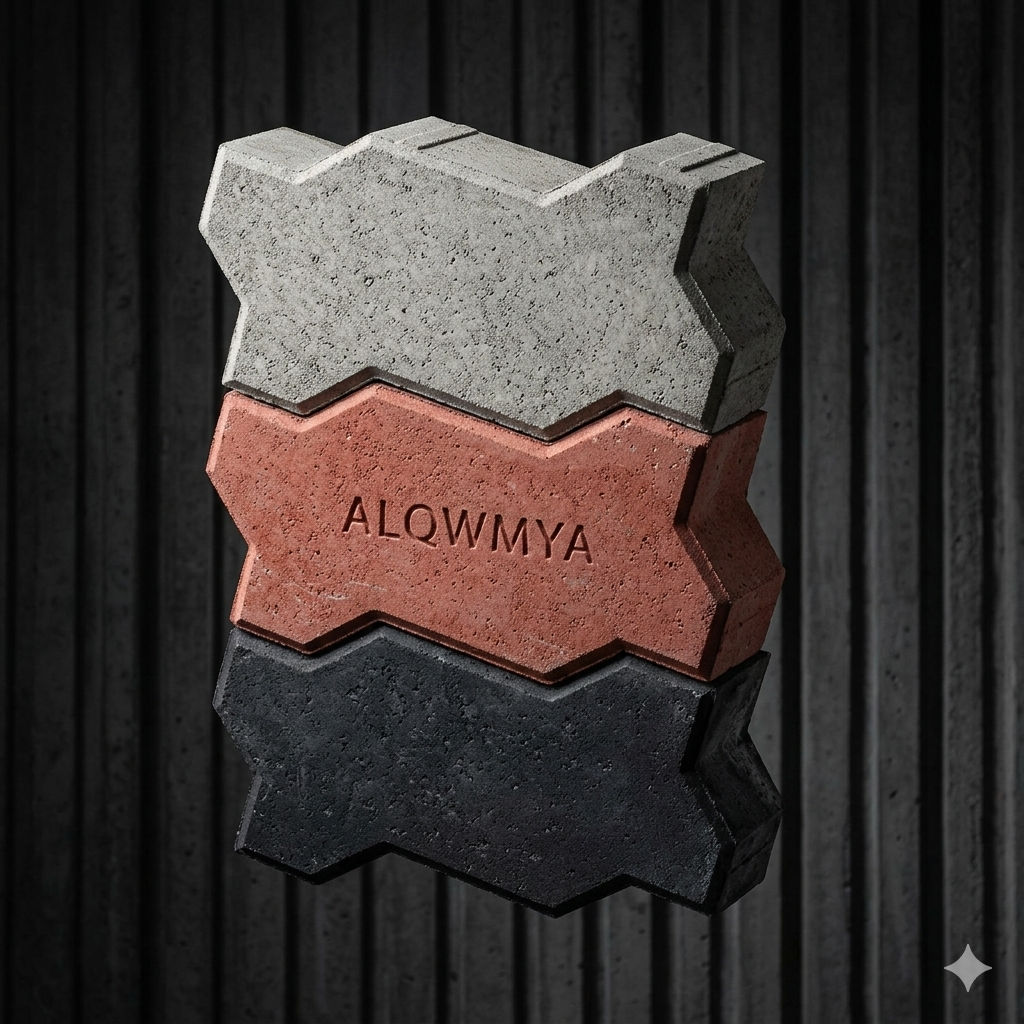
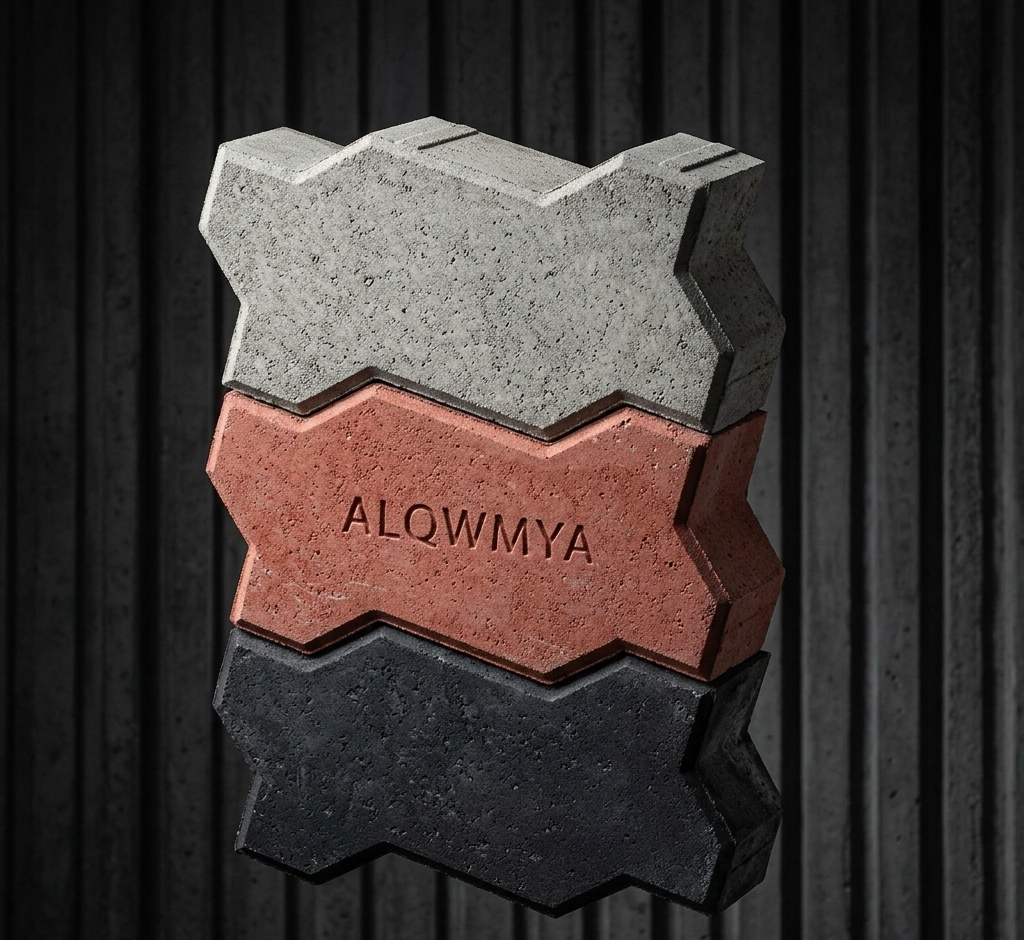
feat: add block sizes 10, 12, 12-double, 15, 20, 25

Changed region(s): [[0.1875, 0.0926, 0.7812, 0.9872], [0.9062, 0.9255, 0.9688, 0.9564]]

diff --git a/src/data/productsData.js b/src/data/productsData.js
@@ -246,61 +246,125 @@ export const productsData = {
         description: 'البلوك الأسمنتي (الطوب البلوك) المفرغ والمصمت هو الخيار الأفضل والأسرع في البناء الحديث. يتميز بالعزل الحراري والصوتي الجيد في حالة البلوك المفرغ، والقوة العالية في البلوك المصمت.',
         items: [
             {
-                id: 'block-40-20-20',
-                name: 'بلوك أسمنتي 40×20×20',
+                id: 'block-10',
+                name: 'بلوك أسمنتي مقاس 10',
+                image: '/images/بلوك اسمنتي مفرغ.png',
+                images: [
+                    '/images/بلوك اسمنتي مفرغ.png',
+                    '/images/بولك اسمنتي مفرغ 1.png'
+                ],
+                shortDescription: 'بلوك أسمنتي مفرغ مقاس 10، مناسب للقواطع الداخلية النحيفة لتوفير مساحة البناء.',
+                specs: {
+                    length: '40 سم',
+                    width: '10 سم',
+                    height: '20 سم',
+                    weight: 'حوالي 9.5 كجم',
+                    material: 'أسمنت بورتلاند، رمل نظيف، سن دلوميت، إضافات',
+                    strength: 'حسب الطلب (طبقا للمواصفات القياسية)',
+                    absorption: '7%',
+                    usage: 'القواطع الداخلية، التقسيمات المعمارية الخفيفة'
+                }
+            },
+            {
+                id: 'block-12',
+                name: 'بلوك أسمنتي مقاس 12',
+                image: '/images/بلوك 12 اسمنتي مفرغ.png',
+                images: [
+                    '/images/بلوك 12 اسمنتي مفرغ.png',
+                    '/images/بلوك 12 مفرغ.png',
+                    '/images/بلوك اسمنتي 12.jpg'
+                ],
+                shortDescription: 'بلوك أسمنتي مفرغ مقاس 12، الخيار الأمثل لتقسيم الغرف والحمامات والمطابخ.',
+                specs: {
+                    length: '40 سم',
+                    width: '12 سم',
+                    height: '20 سم',
+                    weight: 'حوالي 11 كجم',
+                    material: 'أسمنت بورتلاند، رمل نظيف، سن دلوميت، إضافات',
+                    strength: 'حسب الطلب (طبقا للمواصفات القياسية)',
+                    absorption: '7%',
+                    usage: 'تقسيم الغرف، القواطع الداخلية'
+                }
+            },
+            {
+                id: 'block-12-double',
+                name: 'بلوك أسمنتي دبل مفرغ مقاس 12',
+                image: '/images/بلوك اسمنتي دبل مفرغ 12.png',
+                images: [
+                    '/images/بلوك اسمنتي دبل مفرغ 12.png',
+                    '/images/بلوك 12 اسمنتي مفرغ.png'
+                ],
+                shortDescription: 'بلوك أسمنتي مفرغ دبل مقاس 12، يتميز بعزل حراري وصوتي ممتاز.',
+                specs: {
+                    length: '40 سم',
+                    width: '12 سم',
+                    height: '20 سم',
+                    weight: 'حوالي 12 كجم',
+                    material: 'أسمنت بورتلاند، رمل نظيف، سن دلوميت، إضافات',
+                    strength: 'حسب الطلب (طبقا للمواصفات القياسية)',
+                    absorption: '7%',
+                    usage: 'القواطع، الجدران المعزولة'
+                }
+            },
+            {
+                id: 'block-15',
+                name: 'بلوك أسمنتي مقاس 15',
                 image: '/images/بولك اسمنتي مفرغ 1.png',
                 images: [
                     '/images/بولك اسمنتي مفرغ 1.png',
                     '/images/بلوك اسمنتي مفرغ.png'
                 ],
-                shortDescription: 'المقاس القياسي للبلوك الأسمنتي، يستخدم في بناء الحوائط الخارجية الرئيسية.',
-                specs: {
-                    length: '40 سم',
-                    width: '20 سم',
-                    height: '20 سم',
-                    weight: 'متغير (مفرغ / مصمت)',
-                    material: 'أسمنت، رمل، حصوة',
-                    strength: '70 - 100 كجم/سم²',
-                    absorption: 'حوالي 8%',
-                    usage: 'الحوائط الخارجية، الأسوار العالية'
-                }
-            },
-            {
-                id: 'block-40-20-15',
-                name: 'بلوك أسمنتي 40×20×15',
-                image: '/images/بلوك 25 استي مفرغ.png',
-                shortDescription: 'بلوك متوسط العرض، مناسب للقواطع الداخلية والحوائط غير الحاملة.',
+                shortDescription: 'بلوك أسمنتي مفرغ مقاس 15، مناسب للجدران متوسطة السماكة والقواطع.',
                 specs: {
                     length: '40 سم',
                     width: '15 سم',
                     height: '20 سم',
-                    weight: 'متغير (مفرغ / مصمت)',
-                    material: 'أسمنت، رمل، حصوة',
-                    strength: '70 - 100 كجم/سم²',
-                    absorption: 'حوالي 8%',
-                    usage: 'القواطع الداخلية، التقسيمات المعمارية'
+                    weight: 'حوالي 13.5 كجم',
+                    material: 'أسمنت بورتلاند، رمل نظيف، سن دلوميت، إضافات',
+                    strength: 'حسب الطلب (طبقا للمواصفات القياسية)',
+                    absorption: '7%',
+                    usage: 'القواطع الداخلية، جدران المحيط الخفيف'
                 }
             },
             {
-                id: 'block-40-20-12',
-                name: 'بلوك أسمنتي 40×20×12',
-                image: '/images/بلوك 12 اسمنتي مفرغ.png',
+                id: 'block-20',
+                name: 'بلوك أسمنتي مقاس 20',
+                image: '/images/بلوك اسمنتي مفرغ.png',
                 images: [
-                    '/images/بلوك 12 اسمنتي مفرغ.png',
-                    '/images/بلوك 12 مفرغ.png',
-                    '/images/بلوك اسمنتي دبل مفرغ 12.png',
-                    '/images/بلوك اسمنتي 12.jpg'
+                    '/images/بلوك اسمنتي مفرغ.png',
+                    '/images/بولك اسمنتي مفرغ 1.png'
                 ],
-                shortDescription: 'بلوك نحيف للقواطع الداخلية لتوفير مساحة البناء.',
+                shortDescription: 'المقاس القياسي للبلوك الأسمنتي مقاس 20، يستخدم في بناء الحوائط الخارجية الرئيسية والأسوار.',
                 specs: {
                     length: '40 سم',
-                    width: '12 سم',
+                    width: '20 سم',
                     height: '20 سم',
-                    weight: 'متغير (مفرغ)',
-                    material: 'أسمنت، رمل، حصوة',
-                    strength: '70 كجم/سم²',
-                    absorption: 'حوالي 8%',
-                    usage: 'تقسيم الغرف، الحمامات والمطابخ'
+                    weight: 'حوالي 16 كجم',
+                    material: 'أسمنت بورتلاند، رمل نظيف، سن دلوميت، إضافات',
+                    strength: 'حسب الطلب (طبقا للمواصفات القياسية)',
+                    absorption: '7%',
+                    usage: 'الحوائط الخارجية، الأسوار العالية'
+                }
+            },
+            {
+                id: 'block-25',
+                name: 'بلوك أسمنتي مقاس 25',
+                image: '/images/بلوك 25 استي مفرغ.png',
+                images: [
+                    '/images/بلوك 25 استي مفرغ.png',
+                    '/images/بلوك اسمنتي   25.jpg',
+                    '/images/بلوك اسمنتي 25.jpg'
+                ],
+                shortDescription: 'بلوك أسمنتي مفرغ مقاس 25، سمك إضافي لعزل حراري ومقاومة استثنائية.',
+                specs: {
+                    length: '40 سم',
+                    width: '25 سم',
+                    height: '20 سم',
+                    weight: 'حوالي 20 كجم',
+                    material: 'أسمنت بورتلاند، رمل نظيف، سن دلوميت، إضافات',
+                    strength: 'حسب الطلب (طبقا للمواصفات القياسية)',
+                    absorption: '7%',
+                    usage: 'الحوائط الخارجية الحاملة، أعمال العزل العالية'
                 }
             }
         ]